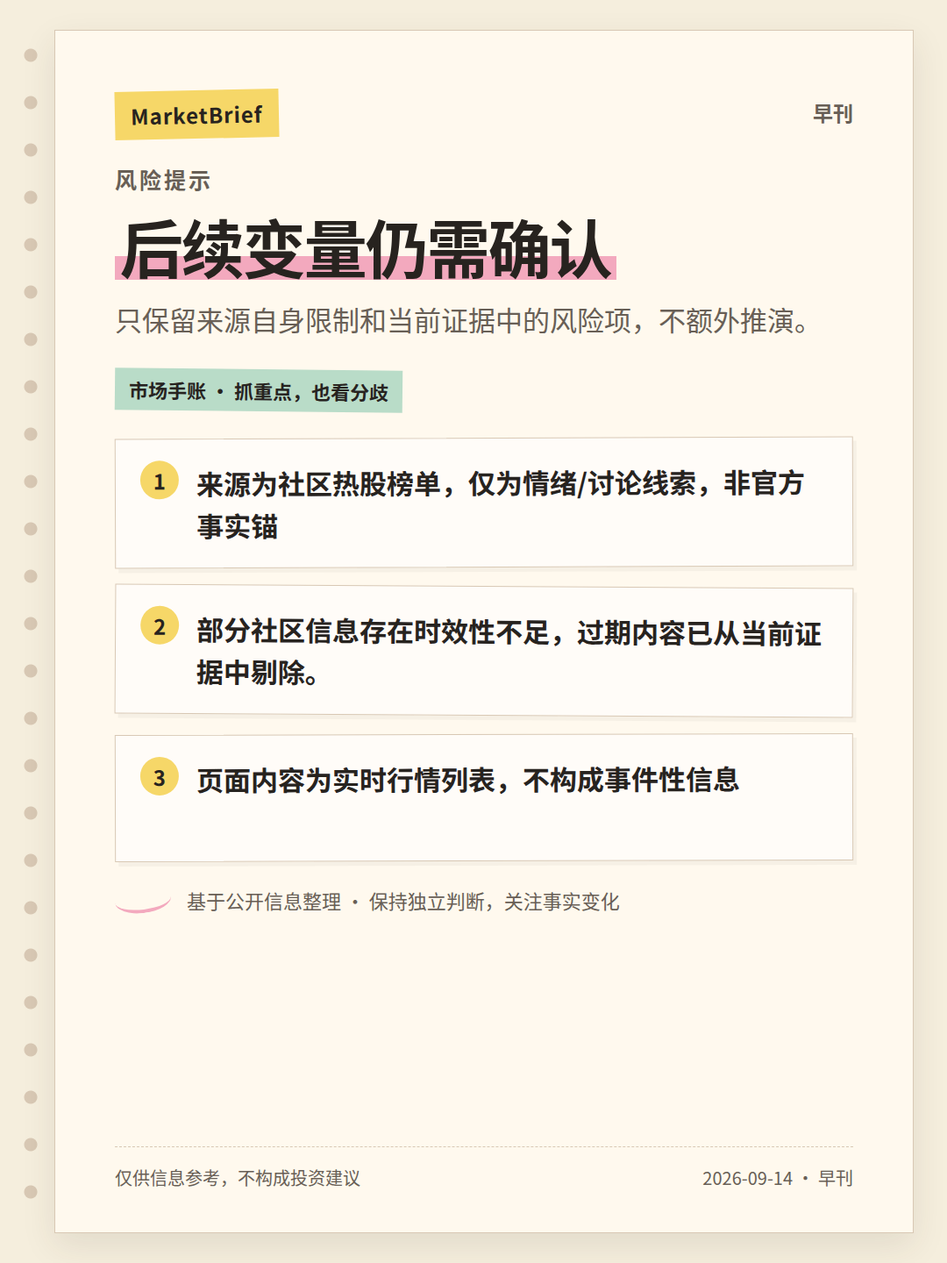
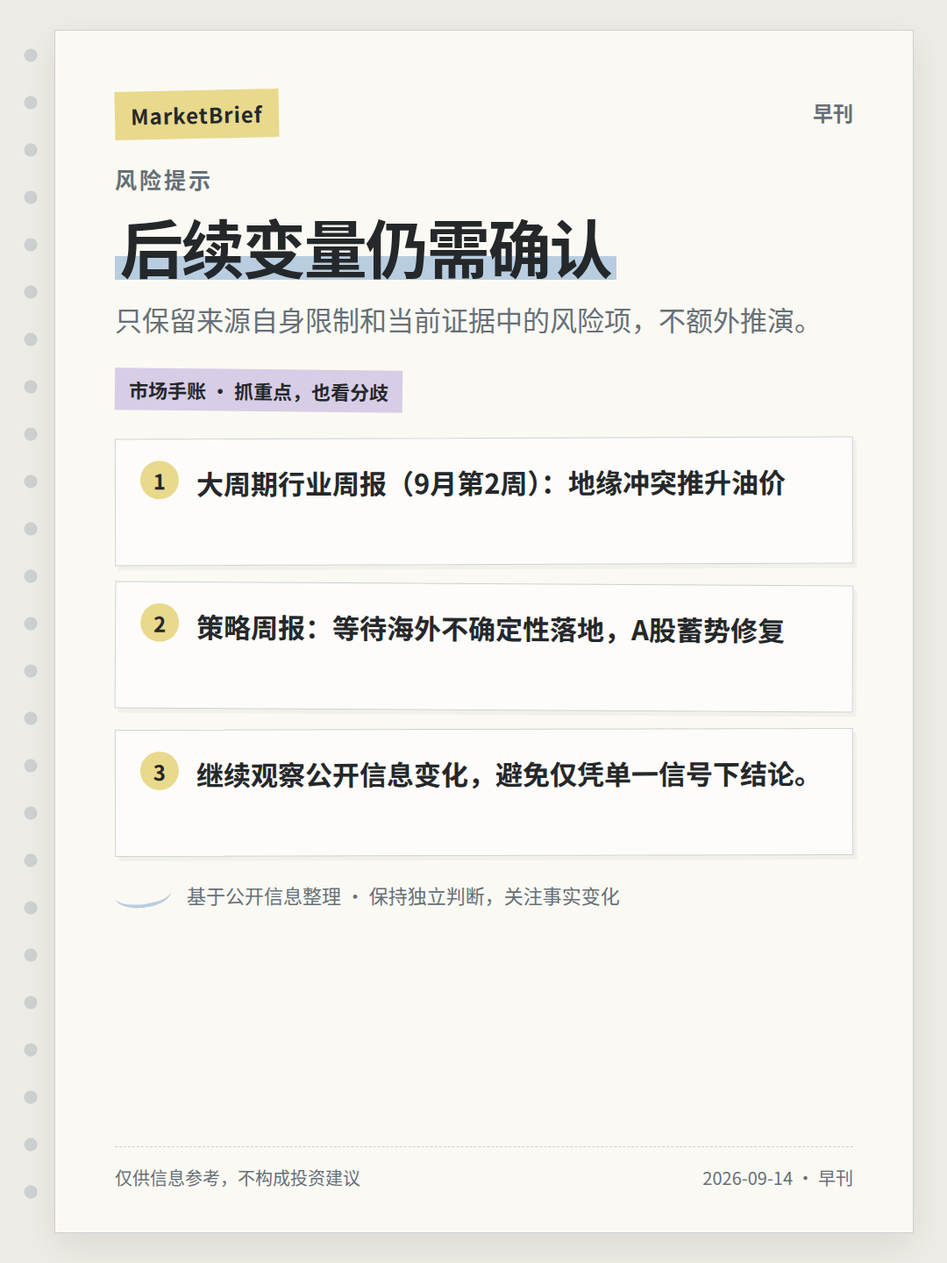
MarketBrief: publish hardened dated edition

diff --git a/output/marketbrief/2026-09-14/am/2026-09-14-am-01.html b/output/marketbrief/2026-09-14/am/2026-09-14-am-01.html
@@ -1,33 +1,33 @@
 <!doctype html>
 <html lang="zh-CN"><head><meta charset="utf-8"><style>
-*{box-sizing:border-box}html,body{margin:0;width:1080px;height:1440px;background:#F5EEDD;color:#27231F;font-family:'Noto Sans CJK SC','Microsoft YaHei',sans-serif}
-body:before{content:'';position:absolute;left:24px;top:36px;bottom:36px;width:22px;background:radial-gradient(circle,#D8C8B4 0 7px,transparent 8px) center top/22px 54px repeat-y}
-main{position:relative;margin:34px 38px 34px 62px;width:980px;height:1372px;padding:68px 68px 52px;background:#FFF9EE;border:1px solid #D8C8B4;box-shadow:0 14px 36px rgba(58,47,39,.10);overflow:hidden}
+*{box-sizing:border-box}html,body{margin:0;width:1080px;height:1440px;background:#EEECE6;color:#25282A;font-family:'Noto Sans CJK SC','Microsoft YaHei',sans-serif}
+body:before{content:'';position:absolute;left:24px;top:36px;bottom:36px;width:22px;background:radial-gradient(circle,#CDD1D2 0 7px,transparent 8px) center top/22px 54px repeat-y}
+main{position:relative;margin:34px 38px 34px 62px;width:980px;height:1372px;padding:68px 68px 52px;background:#FBF9F3;border:1px solid #CDD1D2;box-shadow:0 14px 36px rgba(58,47,39,.10);overflow:hidden}
 main:after{content:none}
 .top{position:relative;z-index:1;display:flex;justify-content:space-between;align-items:flex-start;margin-bottom:28px}
-.tape{display:inline-block;padding:10px 18px;background:#F6D768;transform:rotate(-1.2deg);font-size:24px;font-weight:800;letter-spacing:1px}
-.edition{font-size:23px;font-weight:700;color:#685F56;padding-top:8px}
-.kicker{position:relative;z-index:1;font-size:25px;font-weight:800;letter-spacing:3px;color:#685F56;margin-bottom:18px}
+.tape{display:inline-block;padding:10px 18px;background:#E8D98C;transform:rotate(-1.2deg);font-size:24px;font-weight:800;letter-spacing:1px}
+.edition{font-size:23px;font-weight:700;color:#667078;padding-top:8px}
+.kicker{position:relative;z-index:1;font-size:25px;font-weight:800;letter-spacing:3px;color:#667078;margin-bottom:18px}
 h1{position:relative;z-index:1;font-size:72px;line-height:1.12;margin:0 0 20px;font-weight:900;letter-spacing:-2px}
-h1 span{background:linear-gradient(transparent 62%,#F3A9BE 62% 88%,transparent 88%);padding:0 .08em}
-.sub{position:relative;z-index:1;font-size:31px;line-height:1.5;color:#685F56;margin-bottom:34px;max-width:850px}
-.ribbon{position:relative;z-index:1;display:inline-block;padding:8px 16px;margin-bottom:30px;background:#B9DCC8;font-size:22px;font-weight:700;transform:rotate(.6deg)}
+h1 span{background:linear-gradient(transparent 62%,#B8CDE0 62% 88%,transparent 88%);padding:0 .08em}
+.sub{position:relative;z-index:1;font-size:31px;line-height:1.5;color:#667078;margin-bottom:34px;max-width:850px}
+.ribbon{position:relative;z-index:1;display:inline-block;padding:8px 16px;margin-bottom:30px;background:#D7CDE6;font-size:22px;font-weight:700;transform:rotate(.6deg)}
 .notes{position:relative;z-index:1;display:grid;gap:21px}
-.note{position:relative;min-height:145px;padding:26px 30px 24px 92px;background:rgba(255,255,255,.56);border:1px solid #D8C8B4;box-shadow:4px 5px 0 rgba(0,0,0,.035);transform:rotate(-.2deg)}
+.note{position:relative;min-height:145px;padding:26px 30px 24px 92px;background:rgba(255,255,255,.56);border:1px solid #CDD1D2;box-shadow:4px 5px 0 rgba(0,0,0,.035);transform:rotate(-.2deg)}
 .note:nth-child(2){transform:rotate(.35deg)}.note:nth-child(3){transform:rotate(-.15deg)}
-.note b{position:absolute;left:28px;top:24px;width:44px;height:44px;border-radius:50%;display:grid;place-items:center;background:#F6D768;font-size:24px}
+.note b{position:absolute;left:28px;top:24px;width:44px;height:44px;border-radius:50%;display:grid;place-items:center;background:#E8D98C;font-size:24px}
 .note p{margin:0;font-size:31px;line-height:1.55;font-weight:650}
-.margin{position:relative;z-index:1;margin-top:28px;display:flex;gap:18px;align-items:center;color:#685F56;font-size:22px}
-.sketch{width:64px;height:30px;border-bottom:4px solid #F3A9BE;border-radius:50%;transform:rotate(-7deg)}
-footer{position:absolute;z-index:1;left:68px;right:68px;bottom:48px;border-top:1px dashed #D8C8B4;padding-top:20px;display:flex;justify-content:space-between;gap:20px;color:#685F56;font-size:20px}
+.margin{position:relative;z-index:1;margin-top:28px;display:flex;gap:18px;align-items:center;color:#667078;font-size:22px}
+.sketch{width:64px;height:30px;border-bottom:4px solid #B8CDE0;border-radius:50%;transform:rotate(-7deg)}
+footer{position:absolute;z-index:1;left:68px;right:68px;bottom:48px;border-top:1px dashed #CDD1D2;padding-top:20px;display:flex;justify-content:space-between;gap:20px;color:#667078;font-size:20px}
 </style></head>
 <body><main>
 <div class="top"><span class="tape">MarketBrief</span><span class="edition">早刊</span></div>
 <div class="kicker">今日简报</div>
-<h1><span>FICC周报：关、大周期行业周报：成焦点</span></h1>
-<div class="sub">早刊基于5份有效来源分析，当前重点为FICC周报：关、大周期行业周报：。仅保留时效合格的公开信息，事实、研究观点与市场情绪分开呈现。</div>
+<h1><span>晨会纪要、下周美联储动向成焦点</span></h1>
+<div class="sub">早刊基于4份有效来源分析，当前重点为晨会纪要、下周美联储动向。仅保留时效合格的公开信息，事实、研究观点与市场情绪分开呈现。</div>
 <div class="ribbon">市场手账 · 抓重点，也看分歧</div>
-<div class="notes"><section class="note"><b>1</b><p>FICC周报：关注下周美联储动向</p></section><section class="note"><b>2</b><p>大周期行业周报（9月第2周）：地缘冲突推升油价</p></section><section class="note"><b>3</b><p>8月美国核心CPI环比超预期，9月美联储会议或加息25个基点</p></section></div>
+<div class="notes"><section class="note"><b>1</b><p>晨会纪要</p></section><section class="note"><b>2</b><p>FICC周报：关注下周美联储动向</p></section><section class="note"><b>3</b><p>大周期行业周报（9月第2周）：地缘冲突推升油价</p></section></div>
 <div class="margin"><span class="sketch"></span><span>基于公开信息整理 · 保持独立判断，关注事实变化</span></div>
 <footer><span>仅供信息参考，不构成投资建议</span><span>2026-09-14 · 早刊</span></footer>
 </main></body></html>

diff --git a/output/marketbrief/2026-09-14/am/2026-09-14-am-06.html b/output/marketbrief/2026-09-14/am/2026-09-14-am-06.html
@@ -1,25 +1,25 @@
 <!doctype html>
 <html lang="zh-CN"><head><meta charset="utf-8"><style>
-*{box-sizing:border-box}html,body{margin:0;width:1080px;height:1440px;background:#F5EEDD;color:#27231F;font-family:'Noto Sans CJK SC','Microsoft YaHei',sans-serif}
-body:before{content:'';position:absolute;left:24px;top:36px;bottom:36px;width:22px;background:radial-gradient(circle,#D8C8B4 0 7px,transparent 8px) center top/22px 54px repeat-y}
-main{position:relative;margin:34px 38px 34px 62px;width:980px;height:1372px;padding:68px 68px 52px;background:#FFF9EE;border:1px solid #D8C8B4;box-shadow:0 14px 36px rgba(58,47,39,.10);overflow:hidden}
+*{box-sizing:border-box}html,body{margin:0;width:1080px;height:1440px;background:#EEECE6;color:#25282A;font-family:'Noto Sans CJK SC','Microsoft YaHei',sans-serif}
+body:before{content:'';position:absolute;left:24px;top:36px;bottom:36px;width:22px;background:radial-gradient(circle,#CDD1D2 0 7px,transparent 8px) center top/22px 54px repeat-y}
+main{position:relative;margin:34px 38px 34px 62px;width:980px;height:1372px;padding:68px 68px 52px;background:#FBF9F3;border:1px solid #CDD1D2;box-shadow:0 14px 36px rgba(58,47,39,.10);overflow:hidden}
 main:after{content:none}
 .top{position:relative;z-index:1;display:flex;justify-content:space-between;align-items:flex-start;margin-bottom:28px}
-.tape{display:inline-block;padding:10px 18px;background:#F6D768;transform:rotate(-1.2deg);font-size:24px;font-weight:800;letter-spacing:1px}
-.edition{font-size:23px;font-weight:700;color:#685F56;padding-top:8px}
-.kicker{position:relative;z-index:1;font-size:25px;font-weight:800;letter-spacing:3px;color:#685F56;margin-bottom:18px}
+.tape{display:inline-block;padding:10px 18px;background:#E8D98C;transform:rotate(-1.2deg);font-size:24px;font-weight:800;letter-spacing:1px}
+.edition{font-size:23px;font-weight:700;color:#667078;padding-top:8px}
+.kicker{position:relative;z-index:1;font-size:25px;font-weight:800;letter-spacing:3px;color:#667078;margin-bottom:18px}
 h1{position:relative;z-index:1;font-size:72px;line-height:1.12;margin:0 0 20px;font-weight:900;letter-spacing:-2px}
-h1 span{background:linear-gradient(transparent 62%,#F3A9BE 62% 88%,transparent 88%);padding:0 .08em}
-.sub{position:relative;z-index:1;font-size:31px;line-height:1.5;color:#685F56;margin-bottom:34px;max-width:850px}
-.ribbon{position:relative;z-index:1;display:inline-block;padding:8px 16px;margin-bottom:30px;background:#B9DCC8;font-size:22px;font-weight:700;transform:rotate(.6deg)}
+h1 span{background:linear-gradient(transparent 62%,#B8CDE0 62% 88%,transparent 88%);padding:0 .08em}
+.sub{position:relative;z-index:1;font-size:31px;line-height:1.5;color:#667078;margin-bottom:34px;max-width:850px}
+.ribbon{position:relative;z-index:1;display:inline-block;padding:8px 16px;margin-bottom:30px;background:#D7CDE6;font-size:22px;font-weight:700;transform:rotate(.6deg)}
 .notes{position:relative;z-index:1;display:grid;gap:21px}
-.note{position:relative;min-height:145px;padding:26px 30px 24px 92px;background:rgba(255,255,255,.56);border:1px solid #D8C8B4;box-shadow:4px 5px 0 rgba(0,0,0,.035);transform:rotate(-.2deg)}
+.note{position:relative;min-height:145px;padding:26px 30px 24px 92px;background:rgba(255,255,255,.56);border:1px solid #CDD1D2;box-shadow:4px 5px 0 rgba(0,0,0,.035);transform:rotate(-.2deg)}
 .note:nth-child(2){transform:rotate(.35deg)}.note:nth-child(3){transform:rotate(-.15deg)}
-.note b{position:absolute;left:28px;top:24px;width:44px;height:44px;border-radius:50%;display:grid;place-items:center;background:#F6D768;font-size:24px}
+.note b{position:absolute;left:28px;top:24px;width:44px;height:44px;border-radius:50%;display:grid;place-items:center;background:#E8D98C;font-size:24px}
 .note p{margin:0;font-size:31px;line-height:1.55;font-weight:650}
-.margin{position:relative;z-index:1;margin-top:28px;display:flex;gap:18px;align-items:center;color:#685F56;font-size:22px}
-.sketch{width:64px;height:30px;border-bottom:4px solid #F3A9BE;border-radius:50%;transform:rotate(-7deg)}
-footer{position:absolute;z-index:1;left:68px;right:68px;bottom:48px;border-top:1px dashed #D8C8B4;padding-top:20px;display:flex;justify-content:space-between;gap:20px;color:#685F56;font-size:20px}
+.margin{position:relative;z-index:1;margin-top:28px;display:flex;gap:18px;align-items:center;color:#667078;font-size:22px}
+.sketch{width:64px;height:30px;border-bottom:4px solid #B8CDE0;border-radius:50%;transform:rotate(-7deg)}
+footer{position:absolute;z-index:1;left:68px;right:68px;bottom:48px;border-top:1px dashed #CDD1D2;padding-top:20px;display:flex;justify-content:space-between;gap:20px;color:#667078;font-size:20px}
 </style></head>
 <body><main>
 <div class="top"><span class="tape">MarketBrief</span><span class="edition">早刊</span></div>
@@ -27,7 +27,7 @@ footer{position:absolute;z-index:1;left:68px;right:68px;bottom:48px;border-top:1
 <h1><span>后续变量仍需确认</span></h1>
 <div class="sub">只保留来源自身限制和当前证据中的风险项，不额外推演。</div>
 <div class="ribbon">市场手账 · 抓重点，也看分歧</div>
-<div class="notes"><section class="note"><b>1</b><p>来源为社区热股榜单，仅为情绪/讨论线索，非官方事实锚</p></section><section class="note"><b>2</b><p>部分社区信息存在时效性不足，过期内容已从当前证据中剔除。</p></section><section class="note"><b>3</b><p>页面内容为实时行情列表，不构成事件性信息</p></section></div>
+<div class="notes"><section class="note"><b>1</b><p>大周期行业周报（9月第2周）：地缘冲突推升油价</p></section><section class="note"><b>2</b><p>策略周报：等待海外不确定性落地，A股蓄势修复</p></section><section class="note"><b>3</b><p>继续观察公开信息变化，避免仅凭单一信号下结论。</p></section></div>
 <div class="margin"><span class="sketch"></span><span>基于公开信息整理 · 保持独立判断，关注事实变化</span></div>
 <footer><span>仅供信息参考，不构成投资建议</span><span>2026-09-14 · 早刊</span></footer>
 </main></body></html>

diff --git a/output/marketbrief/2026-09-14/am/2026-09-14-am-05.html b/output/marketbrief/2026-09-14/am/2026-09-14-am-05.html
@@ -1,25 +1,25 @@
 <!doctype html>
 <html lang="zh-CN"><head><meta charset="utf-8"><style>
-*{box-sizing:border-box}html,body{margin:0;width:1080px;height:1440px;background:#F5EEDD;color:#27231F;font-family:'Noto Sans CJK SC','Microsoft YaHei',sans-serif}
-body:before{content:'';position:absolute;left:24px;top:36px;bottom:36px;width:22px;background:radial-gradient(circle,#D8C8B4 0 7px,transparent 8px) center top/22px 54px repeat-y}
-main{position:relative;margin:34px 38px 34px 62px;width:980px;height:1372px;padding:68px 68px 52px;background:#FFF9EE;border:1px solid #D8C8B4;box-shadow:0 14px 36px rgba(58,47,39,.10);overflow:hidden}
+*{box-sizing:border-box}html,body{margin:0;width:1080px;height:1440px;background:#EEECE6;color:#25282A;font-family:'Noto Sans CJK SC','Microsoft YaHei',sans-serif}
+body:before{content:'';position:absolute;left:24px;top:36px;bottom:36px;width:22px;background:radial-gradient(circle,#CDD1D2 0 7px,transparent 8px) center top/22px 54px repeat-y}
+main{position:relative;margin:34px 38px 34px 62px;width:980px;height:1372px;padding:68px 68px 52px;background:#FBF9F3;border:1px solid #CDD1D2;box-shadow:0 14px 36px rgba(58,47,39,.10);overflow:hidden}
 main:after{content:none}
 .top{position:relative;z-index:1;display:flex;justify-content:space-between;align-items:flex-start;margin-bottom:28px}
-.tape{display:inline-block;padding:10px 18px;background:#F6D768;transform:rotate(-1.2deg);font-size:24px;font-weight:800;letter-spacing:1px}
-.edition{font-size:23px;font-weight:700;color:#685F56;padding-top:8px}
-.kicker{position:relative;z-index:1;font-size:25px;font-weight:800;letter-spacing:3px;color:#685F56;margin-bottom:18px}
+.tape{display:inline-block;padding:10px 18px;background:#E8D98C;transform:rotate(-1.2deg);font-size:24px;font-weight:800;letter-spacing:1px}
+.edition{font-size:23px;font-weight:700;color:#667078;padding-top:8px}
+.kicker{position:relative;z-index:1;font-size:25px;font-weight:800;letter-spacing:3px;color:#667078;margin-bottom:18px}
 h1{position:relative;z-index:1;font-size:72px;line-height:1.12;margin:0 0 20px;font-weight:900;letter-spacing:-2px}
-h1 span{background:linear-gradient(transparent 62%,#F3A9BE 62% 88%,transparent 88%);padding:0 .08em}
-.sub{position:relative;z-index:1;font-size:31px;line-height:1.5;color:#685F56;margin-bottom:34px;max-width:850px}
-.ribbon{position:relative;z-index:1;display:inline-block;padding:8px 16px;margin-bottom:30px;background:#B9DCC8;font-size:22px;font-weight:700;transform:rotate(.6deg)}
+h1 span{background:linear-gradient(transparent 62%,#B8CDE0 62% 88%,transparent 88%);padding:0 .08em}
+.sub{position:relative;z-index:1;font-size:31px;line-height:1.5;color:#667078;margin-bottom:34px;max-width:850px}
+.ribbon{position:relative;z-index:1;display:inline-block;padding:8px 16px;margin-bottom:30px;background:#D7CDE6;font-size:22px;font-weight:700;transform:rotate(.6deg)}
 .notes{position:relative;z-index:1;display:grid;gap:21px}
-.note{position:relative;min-height:145px;padding:26px 30px 24px 92px;background:rgba(255,255,255,.56);border:1px solid #D8C8B4;box-shadow:4px 5px 0 rgba(0,0,0,.035);transform:rotate(-.2deg)}
+.note{position:relative;min-height:145px;padding:26px 30px 24px 92px;background:rgba(255,255,255,.56);border:1px solid #CDD1D2;box-shadow:4px 5px 0 rgba(0,0,0,.035);transform:rotate(-.2deg)}
 .note:nth-child(2){transform:rotate(.35deg)}.note:nth-child(3){transform:rotate(-.15deg)}
-.note b{position:absolute;left:28px;top:24px;width:44px;height:44px;border-radius:50%;display:grid;place-items:center;background:#F6D768;font-size:24px}
+.note b{position:absolute;left:28px;top:24px;width:44px;height:44px;border-radius:50%;display:grid;place-items:center;background:#E8D98C;font-size:24px}
 .note p{margin:0;font-size:31px;line-height:1.55;font-weight:650}
-.margin{position:relative;z-index:1;margin-top:28px;display:flex;gap:18px;align-items:center;color:#685F56;font-size:22px}
-.sketch{width:64px;height:30px;border-bottom:4px solid #F3A9BE;border-radius:50%;transform:rotate(-7deg)}
-footer{position:absolute;z-index:1;left:68px;right:68px;bottom:48px;border-top:1px dashed #D8C8B4;padding-top:20px;display:flex;justify-content:space-between;gap:20px;color:#685F56;font-size:20px}
+.margin{position:relative;z-index:1;margin-top:28px;display:flex;gap:18px;align-items:center;color:#667078;font-size:22px}
+.sketch{width:64px;height:30px;border-bottom:4px solid #B8CDE0;border-radius:50%;transform:rotate(-7deg)}
+footer{position:absolute;z-index:1;left:68px;right:68px;bottom:48px;border-top:1px dashed #CDD1D2;padding-top:20px;display:flex;justify-content:space-between;gap:20px;color:#667078;font-size:20px}
 </style></head>
 <body><main>
 <div class="top"><span class="tape">MarketBrief</span><span class="edition">早刊</span></div>
@@ -27,7 +27,7 @@ footer{position:absolute;z-index:1;left:68px;right:68px;bottom:48px;border-top:1
 <h1><span>事实、观点与情绪分开看</span></h1>
 <div class="sub">先看已确认事实，再看研究判断和市场情绪是否一致。</div>
 <div class="ribbon">市场手账 · 抓重点，也看分歧</div>
-<div class="notes"><section class="note"><b>1</b><p>关于刊发H股招股说明书、H股发行价格上限及H股香港公开发售等事宜的公告</p></section><section class="note"><b>2</b><p>FICC周报：关注下周美联储动向</p></section><section class="note"><b>3</b><p>CPO板块持续活跃：易中天等个股大涨，板块热度居前</p></section></div>
+<div class="notes"><section class="note"><b>1</b><p>关于刊发H股招股说明书、H股发行价格上限及H股香港公开发售等事宜的公告</p></section><section class="note"><b>2</b><p>晨会纪要</p></section><section class="note"><b>3</b><p>继续观察公开信息变化，避免仅凭单一信号下结论。</p></section></div>
 <div class="margin"><span class="sketch"></span><span>基于公开信息整理 · 保持独立判断，关注事实变化</span></div>
 <footer><span>仅供信息参考，不构成投资建议</span><span>2026-09-14 · 早刊</span></footer>
 </main></body></html>

diff --git a/output/marketbrief/2026-09-14/am/2026-09-14-am-02.html b/output/marketbrief/2026-09-14/am/2026-09-14-am-02.html
@@ -1,25 +1,25 @@
 <!doctype html>
 <html lang="zh-CN"><head><meta charset="utf-8"><style>
-*{box-sizing:border-box}html,body{margin:0;width:1080px;height:1440px;background:#F5EEDD;color:#27231F;font-family:'Noto Sans CJK SC','Microsoft YaHei',sans-serif}
-body:before{content:'';position:absolute;left:24px;top:36px;bottom:36px;width:22px;background:radial-gradient(circle,#D8C8B4 0 7px,transparent 8px) center top/22px 54px repeat-y}
-main{position:relative;margin:34px 38px 34px 62px;width:980px;height:1372px;padding:68px 68px 52px;background:#FFF9EE;border:1px solid #D8C8B4;box-shadow:0 14px 36px rgba(58,47,39,.10);overflow:hidden}
+*{box-sizing:border-box}html,body{margin:0;width:1080px;height:1440px;background:#EEECE6;color:#25282A;font-family:'Noto Sans CJK SC','Microsoft YaHei',sans-serif}
+body:before{content:'';position:absolute;left:24px;top:36px;bottom:36px;width:22px;background:radial-gradient(circle,#CDD1D2 0 7px,transparent 8px) center top/22px 54px repeat-y}
+main{position:relative;margin:34px 38px 34px 62px;width:980px;height:1372px;padding:68px 68px 52px;background:#FBF9F3;border:1px solid #CDD1D2;box-shadow:0 14px 36px rgba(58,47,39,.10);overflow:hidden}
 main:after{content:none}
 .top{position:relative;z-index:1;display:flex;justify-content:space-between;align-items:flex-start;margin-bottom:28px}
-.tape{display:inline-block;padding:10px 18px;background:#F6D768;transform:rotate(-1.2deg);font-size:24px;font-weight:800;letter-spacing:1px}
-.edition{font-size:23px;font-weight:700;color:#685F56;padding-top:8px}
-.kicker{position:relative;z-index:1;font-size:25px;font-weight:800;letter-spacing:3px;color:#685F56;margin-bottom:18px}
+.tape{display:inline-block;padding:10px 18px;background:#E8D98C;transform:rotate(-1.2deg);font-size:24px;font-weight:800;letter-spacing:1px}
+.edition{font-size:23px;font-weight:700;color:#667078;padding-top:8px}
+.kicker{position:relative;z-index:1;font-size:25px;font-weight:800;letter-spacing:3px;color:#667078;margin-bottom:18px}
 h1{position:relative;z-index:1;font-size:72px;line-height:1.12;margin:0 0 20px;font-weight:900;letter-spacing:-2px}
-h1 span{background:linear-gradient(transparent 62%,#F3A9BE 62% 88%,transparent 88%);padding:0 .08em}
-.sub{position:relative;z-index:1;font-size:31px;line-height:1.5;color:#685F56;margin-bottom:34px;max-width:850px}
-.ribbon{position:relative;z-index:1;display:inline-block;padding:8px 16px;margin-bottom:30px;background:#B9DCC8;font-size:22px;font-weight:700;transform:rotate(.6deg)}
+h1 span{background:linear-gradient(transparent 62%,#B8CDE0 62% 88%,transparent 88%);padding:0 .08em}
+.sub{position:relative;z-index:1;font-size:31px;line-height:1.5;color:#667078;margin-bottom:34px;max-width:850px}
+.ribbon{position:relative;z-index:1;display:inline-block;padding:8px 16px;margin-bottom:30px;background:#D7CDE6;font-size:22px;font-weight:700;transform:rotate(.6deg)}
 .notes{position:relative;z-index:1;display:grid;gap:21px}
-.note{position:relative;min-height:145px;padding:26px 30px 24px 92px;background:rgba(255,255,255,.56);border:1px solid #D8C8B4;box-shadow:4px 5px 0 rgba(0,0,0,.035);transform:rotate(-.2deg)}
+.note{position:relative;min-height:145px;padding:26px 30px 24px 92px;background:rgba(255,255,255,.56);border:1px solid #CDD1D2;box-shadow:4px 5px 0 rgba(0,0,0,.035);transform:rotate(-.2deg)}
 .note:nth-child(2){transform:rotate(.35deg)}.note:nth-child(3){transform:rotate(-.15deg)}
-.note b{position:absolute;left:28px;top:24px;width:44px;height:44px;border-radius:50%;display:grid;place-items:center;background:#F6D768;font-size:24px}
+.note b{position:absolute;left:28px;top:24px;width:44px;height:44px;border-radius:50%;display:grid;place-items:center;background:#E8D98C;font-size:24px}
 .note p{margin:0;font-size:31px;line-height:1.55;font-weight:650}
-.margin{position:relative;z-index:1;margin-top:28px;display:flex;gap:18px;align-items:center;color:#685F56;font-size:22px}
-.sketch{width:64px;height:30px;border-bottom:4px solid #F3A9BE;border-radius:50%;transform:rotate(-7deg)}
-footer{position:absolute;z-index:1;left:68px;right:68px;bottom:48px;border-top:1px dashed #D8C8B4;padding-top:20px;display:flex;justify-content:space-between;gap:20px;color:#685F56;font-size:20px}
+.margin{position:relative;z-index:1;margin-top:28px;display:flex;gap:18px;align-items:center;color:#667078;font-size:22px}
+.sketch{width:64px;height:30px;border-bottom:4px solid #B8CDE0;border-radius:50%;transform:rotate(-7deg)}
+footer{position:absolute;z-index:1;left:68px;right:68px;bottom:48px;border-top:1px dashed #CDD1D2;padding-top:20px;display:flex;justify-content:space-between;gap:20px;color:#667078;font-size:20px}
 </style></head>
 <body><main>
 <div class="top"><span class="tape">MarketBrief</span><span class="edition">早刊</span></div>

diff --git a/output/marketbrief/2026-09-14/am/2026-09-14-am-03.html b/output/marketbrief/2026-09-14/am/2026-09-14-am-03.html
@@ -1,25 +1,25 @@
 <!doctype html>
 <html lang="zh-CN"><head><meta charset="utf-8"><style>
-*{box-sizing:border-box}html,body{margin:0;width:1080px;height:1440px;background:#F5EEDD;color:#27231F;font-family:'Noto Sans CJK SC','Microsoft YaHei',sans-serif}
-body:before{content:'';position:absolute;left:24px;top:36px;bottom:36px;width:22px;background:radial-gradient(circle,#D8C8B4 0 7px,transparent 8px) center top/22px 54px repeat-y}
-main{position:relative;margin:34px 38px 34px 62px;width:980px;height:1372px;padding:68px 68px 52px;background:#FFF9EE;border:1px solid #D8C8B4;box-shadow:0 14px 36px rgba(58,47,39,.10);overflow:hidden}
+*{box-sizing:border-box}html,body{margin:0;width:1080px;height:1440px;background:#EEECE6;color:#25282A;font-family:'Noto Sans CJK SC','Microsoft YaHei',sans-serif}
+body:before{content:'';position:absolute;left:24px;top:36px;bottom:36px;width:22px;background:radial-gradient(circle,#CDD1D2 0 7px,transparent 8px) center top/22px 54px repeat-y}
+main{position:relative;margin:34px 38px 34px 62px;width:980px;height:1372px;padding:68px 68px 52px;background:#FBF9F3;border:1px solid #CDD1D2;box-shadow:0 14px 36px rgba(58,47,39,.10);overflow:hidden}
 main:after{content:none}
 .top{position:relative;z-index:1;display:flex;justify-content:space-between;align-items:flex-start;margin-bottom:28px}
-.tape{display:inline-block;padding:10px 18px;background:#F6D768;transform:rotate(-1.2deg);font-size:24px;font-weight:800;letter-spacing:1px}
-.edition{font-size:23px;font-weight:700;color:#685F56;padding-top:8px}
-.kicker{position:relative;z-index:1;font-size:25px;font-weight:800;letter-spacing:3px;color:#685F56;margin-bottom:18px}
+.tape{display:inline-block;padding:10px 18px;background:#E8D98C;transform:rotate(-1.2deg);font-size:24px;font-weight:800;letter-spacing:1px}
+.edition{font-size:23px;font-weight:700;color:#667078;padding-top:8px}
+.kicker{position:relative;z-index:1;font-size:25px;font-weight:800;letter-spacing:3px;color:#667078;margin-bottom:18px}
 h1{position:relative;z-index:1;font-size:72px;line-height:1.12;margin:0 0 20px;font-weight:900;letter-spacing:-2px}
-h1 span{background:linear-gradient(transparent 62%,#F3A9BE 62% 88%,transparent 88%);padding:0 .08em}
-.sub{position:relative;z-index:1;font-size:31px;line-height:1.5;color:#685F56;margin-bottom:34px;max-width:850px}
-.ribbon{position:relative;z-index:1;display:inline-block;padding:8px 16px;margin-bottom:30px;background:#B9DCC8;font-size:22px;font-weight:700;transform:rotate(.6deg)}
+h1 span{background:linear-gradient(transparent 62%,#B8CDE0 62% 88%,transparent 88%);padding:0 .08em}
+.sub{position:relative;z-index:1;font-size:31px;line-height:1.5;color:#667078;margin-bottom:34px;max-width:850px}
+.ribbon{position:relative;z-index:1;display:inline-block;padding:8px 16px;margin-bottom:30px;background:#D7CDE6;font-size:22px;font-weight:700;transform:rotate(.6deg)}
 .notes{position:relative;z-index:1;display:grid;gap:21px}
-.note{position:relative;min-height:145px;padding:26px 30px 24px 92px;background:rgba(255,255,255,.56);border:1px solid #D8C8B4;box-shadow:4px 5px 0 rgba(0,0,0,.035);transform:rotate(-.2deg)}
+.note{position:relative;min-height:145px;padding:26px 30px 24px 92px;background:rgba(255,255,255,.56);border:1px solid #CDD1D2;box-shadow:4px 5px 0 rgba(0,0,0,.035);transform:rotate(-.2deg)}
 .note:nth-child(2){transform:rotate(.35deg)}.note:nth-child(3){transform:rotate(-.15deg)}
-.note b{position:absolute;left:28px;top:24px;width:44px;height:44px;border-radius:50%;display:grid;place-items:center;background:#F6D768;font-size:24px}
+.note b{position:absolute;left:28px;top:24px;width:44px;height:44px;border-radius:50%;display:grid;place-items:center;background:#E8D98C;font-size:24px}
 .note p{margin:0;font-size:31px;line-height:1.55;font-weight:650}
-.margin{position:relative;z-index:1;margin-top:28px;display:flex;gap:18px;align-items:center;color:#685F56;font-size:22px}
-.sketch{width:64px;height:30px;border-bottom:4px solid #F3A9BE;border-radius:50%;transform:rotate(-7deg)}
-footer{position:absolute;z-index:1;left:68px;right:68px;bottom:48px;border-top:1px dashed #D8C8B4;padding-top:20px;display:flex;justify-content:space-between;gap:20px;color:#685F56;font-size:20px}
+.margin{position:relative;z-index:1;margin-top:28px;display:flex;gap:18px;align-items:center;color:#667078;font-size:22px}
+.sketch{width:64px;height:30px;border-bottom:4px solid #B8CDE0;border-radius:50%;transform:rotate(-7deg)}
+footer{position:absolute;z-index:1;left:68px;right:68px;bottom:48px;border-top:1px dashed #CDD1D2;padding-top:20px;display:flex;justify-content:space-between;gap:20px;color:#667078;font-size:20px}
 </style></head>
 <body><main>
 <div class="top"><span class="tape">MarketBrief</span><span class="edition">早刊</span></div>

diff --git a/output/marketbrief/2026-09-14/am/2026-09-14-am-04.html b/output/marketbrief/2026-09-14/am/2026-09-14-am-04.html
@@ -1,25 +1,25 @@
 <!doctype html>
 <html lang="zh-CN"><head><meta charset="utf-8"><style>
-*{box-sizing:border-box}html,body{margin:0;width:1080px;height:1440px;background:#F5EEDD;color:#27231F;font-family:'Noto Sans CJK SC','Microsoft YaHei',sans-serif}
-body:before{content:'';position:absolute;left:24px;top:36px;bottom:36px;width:22px;background:radial-gradient(circle,#D8C8B4 0 7px,transparent 8px) center top/22px 54px repeat-y}
-main{position:relative;margin:34px 38px 34px 62px;width:980px;height:1372px;padding:68px 68px 52px;background:#FFF9EE;border:1px solid #D8C8B4;box-shadow:0 14px 36px rgba(58,47,39,.10);overflow:hidden}
+*{box-sizing:border-box}html,body{margin:0;width:1080px;height:1440px;background:#EEECE6;color:#25282A;font-family:'Noto Sans CJK SC','Microsoft YaHei',sans-serif}
+body:before{content:'';position:absolute;left:24px;top:36px;bottom:36px;width:22px;background:radial-gradient(circle,#CDD1D2 0 7px,transparent 8px) center top/22px 54px repeat-y}
+main{position:relative;margin:34px 38px 34px 62px;width:980px;height:1372px;padding:68px 68px 52px;background:#FBF9F3;border:1px solid #CDD1D2;box-shadow:0 14px 36px rgba(58,47,39,.10);overflow:hidden}
 main:after{content:none}
 .top{position:relative;z-index:1;display:flex;justify-content:space-between;align-items:flex-start;margin-bottom:28px}
-.tape{display:inline-block;padding:10px 18px;background:#F6D768;transform:rotate(-1.2deg);font-size:24px;font-weight:800;letter-spacing:1px}
-.edition{font-size:23px;font-weight:700;color:#685F56;padding-top:8px}
-.kicker{position:relative;z-index:1;font-size:25px;font-weight:800;letter-spacing:3px;color:#685F56;margin-bottom:18px}
+.tape{display:inline-block;padding:10px 18px;background:#E8D98C;transform:rotate(-1.2deg);font-size:24px;font-weight:800;letter-spacing:1px}
+.edition{font-size:23px;font-weight:700;color:#667078;padding-top:8px}
+.kicker{position:relative;z-index:1;font-size:25px;font-weight:800;letter-spacing:3px;color:#667078;margin-bottom:18px}
 h1{position:relative;z-index:1;font-size:72px;line-height:1.12;margin:0 0 20px;font-weight:900;letter-spacing:-2px}
-h1 span{background:linear-gradient(transparent 62%,#F3A9BE 62% 88%,transparent 88%);padding:0 .08em}
-.sub{position:relative;z-index:1;font-size:31px;line-height:1.5;color:#685F56;margin-bottom:34px;max-width:850px}
-.ribbon{position:relative;z-index:1;display:inline-block;padding:8px 16px;margin-bottom:30px;background:#B9DCC8;font-size:22px;font-weight:700;transform:rotate(.6deg)}
+h1 span{background:linear-gradient(transparent 62%,#B8CDE0 62% 88%,transparent 88%);padding:0 .08em}
+.sub{position:relative;z-index:1;font-size:31px;line-height:1.5;color:#667078;margin-bottom:34px;max-width:850px}
+.ribbon{position:relative;z-index:1;display:inline-block;padding:8px 16px;margin-bottom:30px;background:#D7CDE6;font-size:22px;font-weight:700;transform:rotate(.6deg)}
 .notes{position:relative;z-index:1;display:grid;gap:21px}
-.note{position:relative;min-height:145px;padding:26px 30px 24px 92px;background:rgba(255,255,255,.56);border:1px solid #D8C8B4;box-shadow:4px 5px 0 rgba(0,0,0,.035);transform:rotate(-.2deg)}
+.note{position:relative;min-height:145px;padding:26px 30px 24px 92px;background:rgba(255,255,255,.56);border:1px solid #CDD1D2;box-shadow:4px 5px 0 rgba(0,0,0,.035);transform:rotate(-.2deg)}
 .note:nth-child(2){transform:rotate(.35deg)}.note:nth-child(3){transform:rotate(-.15deg)}
-.note b{position:absolute;left:28px;top:24px;width:44px;height:44px;border-radius:50%;display:grid;place-items:center;background:#F6D768;font-size:24px}
+.note b{position:absolute;left:28px;top:24px;width:44px;height:44px;border-radius:50%;display:grid;place-items:center;background:#E8D98C;font-size:24px}
 .note p{margin:0;font-size:31px;line-height:1.55;font-weight:650}
-.margin{position:relative;z-index:1;margin-top:28px;display:flex;gap:18px;align-items:center;color:#685F56;font-size:22px}
-.sketch{width:64px;height:30px;border-bottom:4px solid #F3A9BE;border-radius:50%;transform:rotate(-7deg)}
-footer{position:absolute;z-index:1;left:68px;right:68px;bottom:48px;border-top:1px dashed #D8C8B4;padding-top:20px;display:flex;justify-content:space-between;gap:20px;color:#685F56;font-size:20px}
+.margin{position:relative;z-index:1;margin-top:28px;display:flex;gap:18px;align-items:center;color:#667078;font-size:22px}
+.sketch{width:64px;height:30px;border-bottom:4px solid #B8CDE0;border-radius:50%;transform:rotate(-7deg)}
+footer{position:absolute;z-index:1;left:68px;right:68px;bottom:48px;border-top:1px dashed #CDD1D2;padding-top:20px;display:flex;justify-content:space-between;gap:20px;color:#667078;font-size:20px}
 </style></head>
 <body><main>
 <div class="top"><span class="tape">MarketBrief</span><span class="edition">早刊</span></div>

diff --git a/output/marketbrief/2026-09-14/am/brief.md b/output/marketbrief/2026-09-14/am/brief.md
@@ -1,6 +1,6 @@
-# FICC周报：关、大周期行业周报：成焦点
+# 晨会纪要、下周美联储动向成焦点
 
-> 早刊基于5份有效来源分析，当前重点为FICC周报：关、大周期行业周报：。仅保留时效合格的公开信息，事实、研究观点与市场情绪分开呈现。
+> 早刊基于4份有效来源分析，当前重点为晨会纪要、下周美联储动向。仅保留时效合格的公开信息，事实、研究观点与市场情绪分开呈现。
 
 ## 隔夜外部变量
 
@@ -29,16 +29,14 @@
 先看已确认事实，再看研究判断和市场情绪是否一致。
 
 - 关于刊发H股招股说明书、H股发行价格上限及H股香港公开发售等事宜的公告
-- FICC周报：关注下周美联储动向
-- CPO板块持续活跃：易中天等个股大涨，板块热度居前
+- 晨会纪要
 
 ## 后续变量仍需确认
 
 只保留来源自身限制和当前证据中的风险项，不额外推演。
 
-- 来源为社区热股榜单，仅为情绪/讨论线索，非官方事实锚
-- 部分社区信息存在时效性不足，过期内容已从当前证据中剔除。
-- 页面内容为实时行情列表，不构成事件性信息
+- 大周期行业周报（9月第2周）：地缘冲突推升油价
+- 策略周报：等待海外不确定性落地，A股蓄势修复
 
 ## 信息口径
 
@@ -49,5 +47,5 @@
 本文仅作公开信息整理与讨论，不构成任何投资建议。
 
 刊期：2026-09-14 早刊  
-生成时间：2026-09-14T11:29:40+08:00  
-模型：`SenseNova` · 调用 1 次 · Token 3506
+生成时间：2026-09-14T11:42:01+08:00  
+模型：`SenseNova` · 调用 0 次 · Token 0
